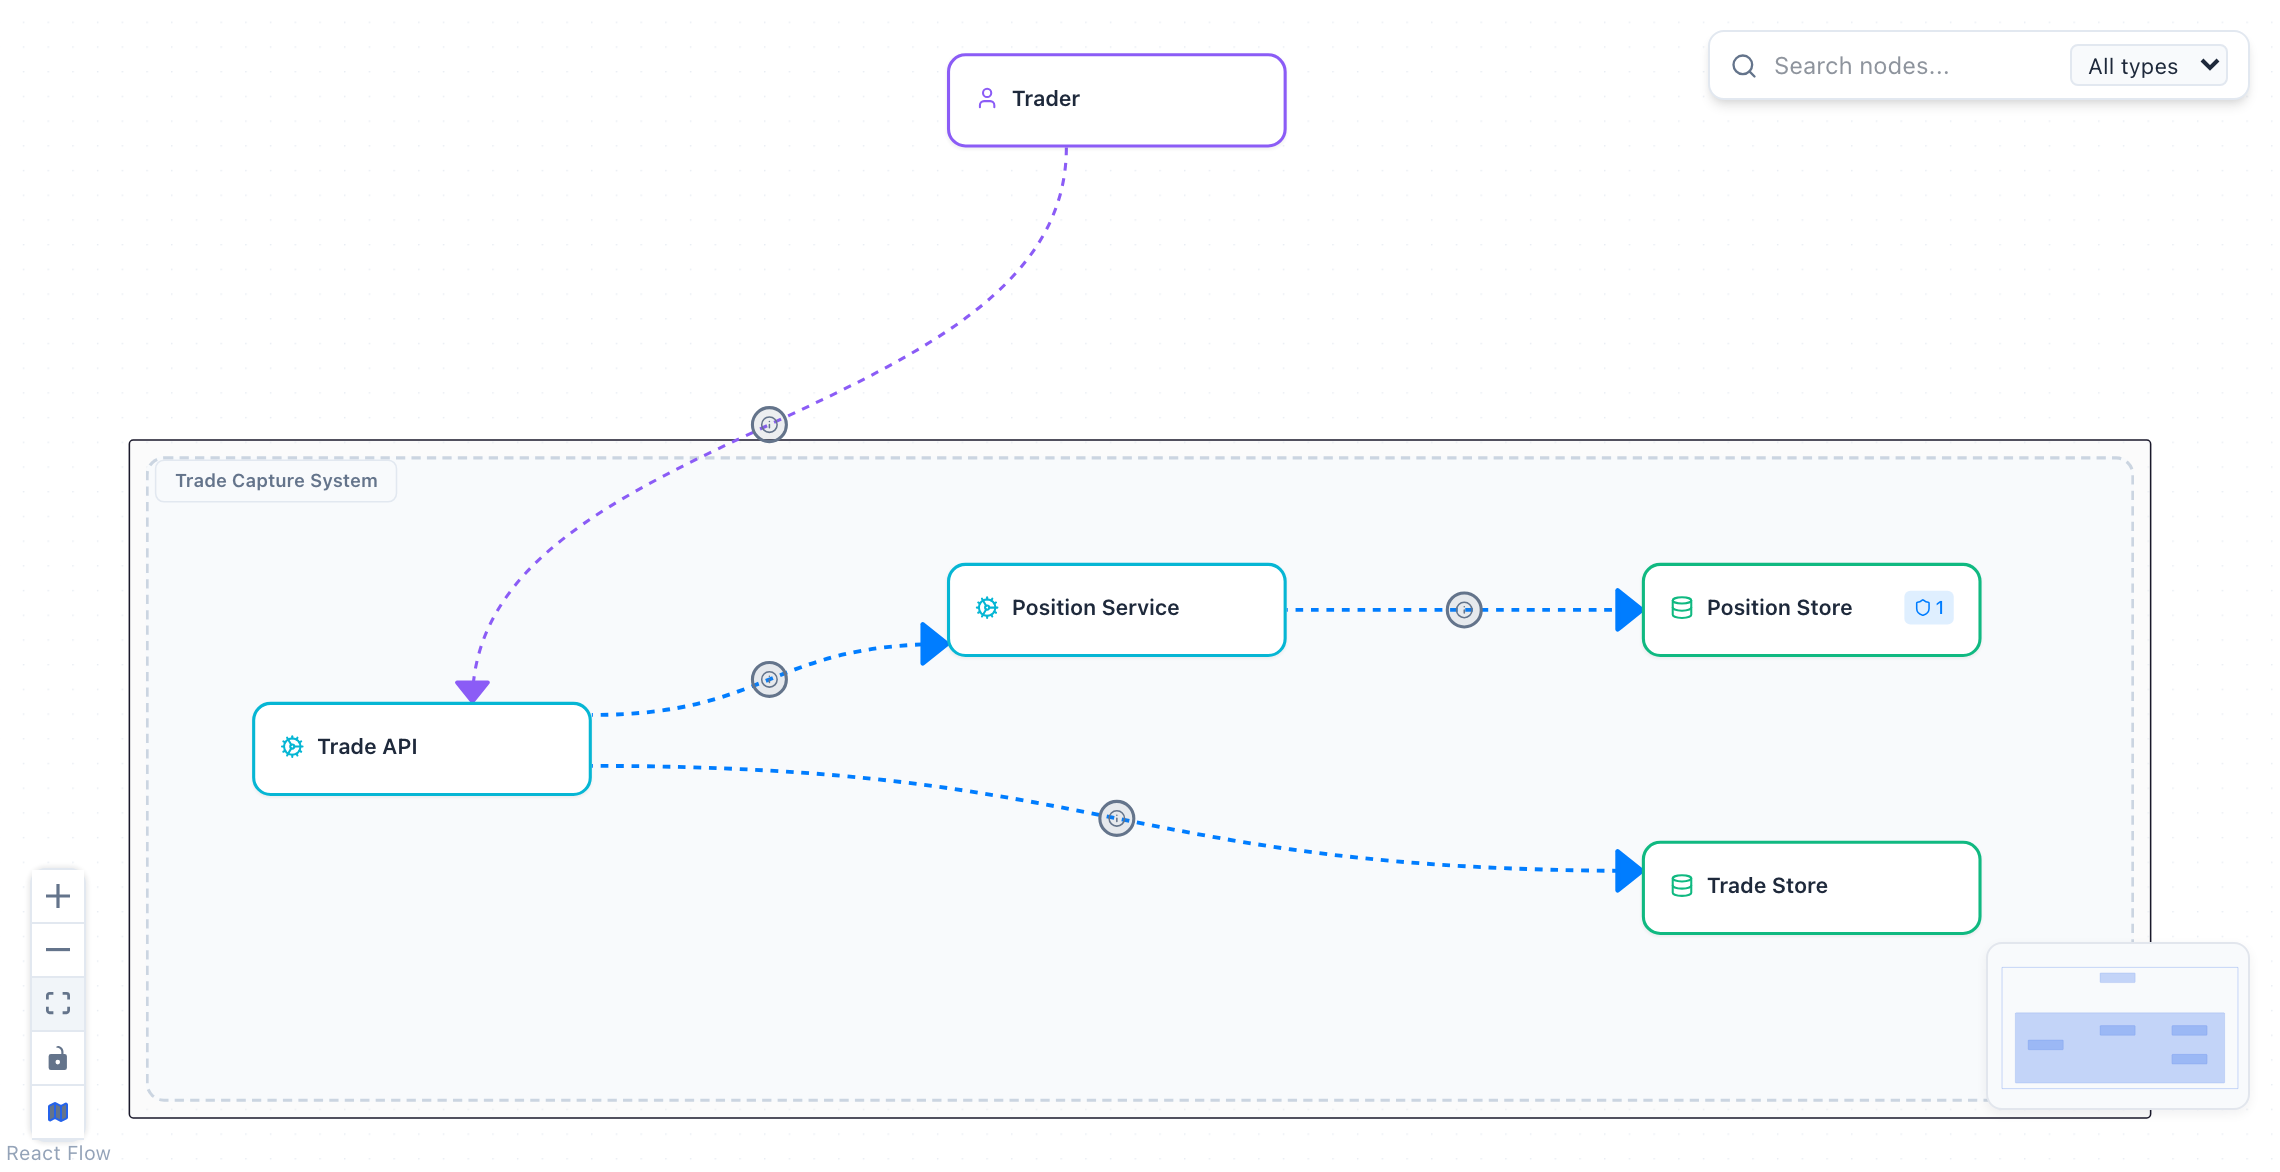
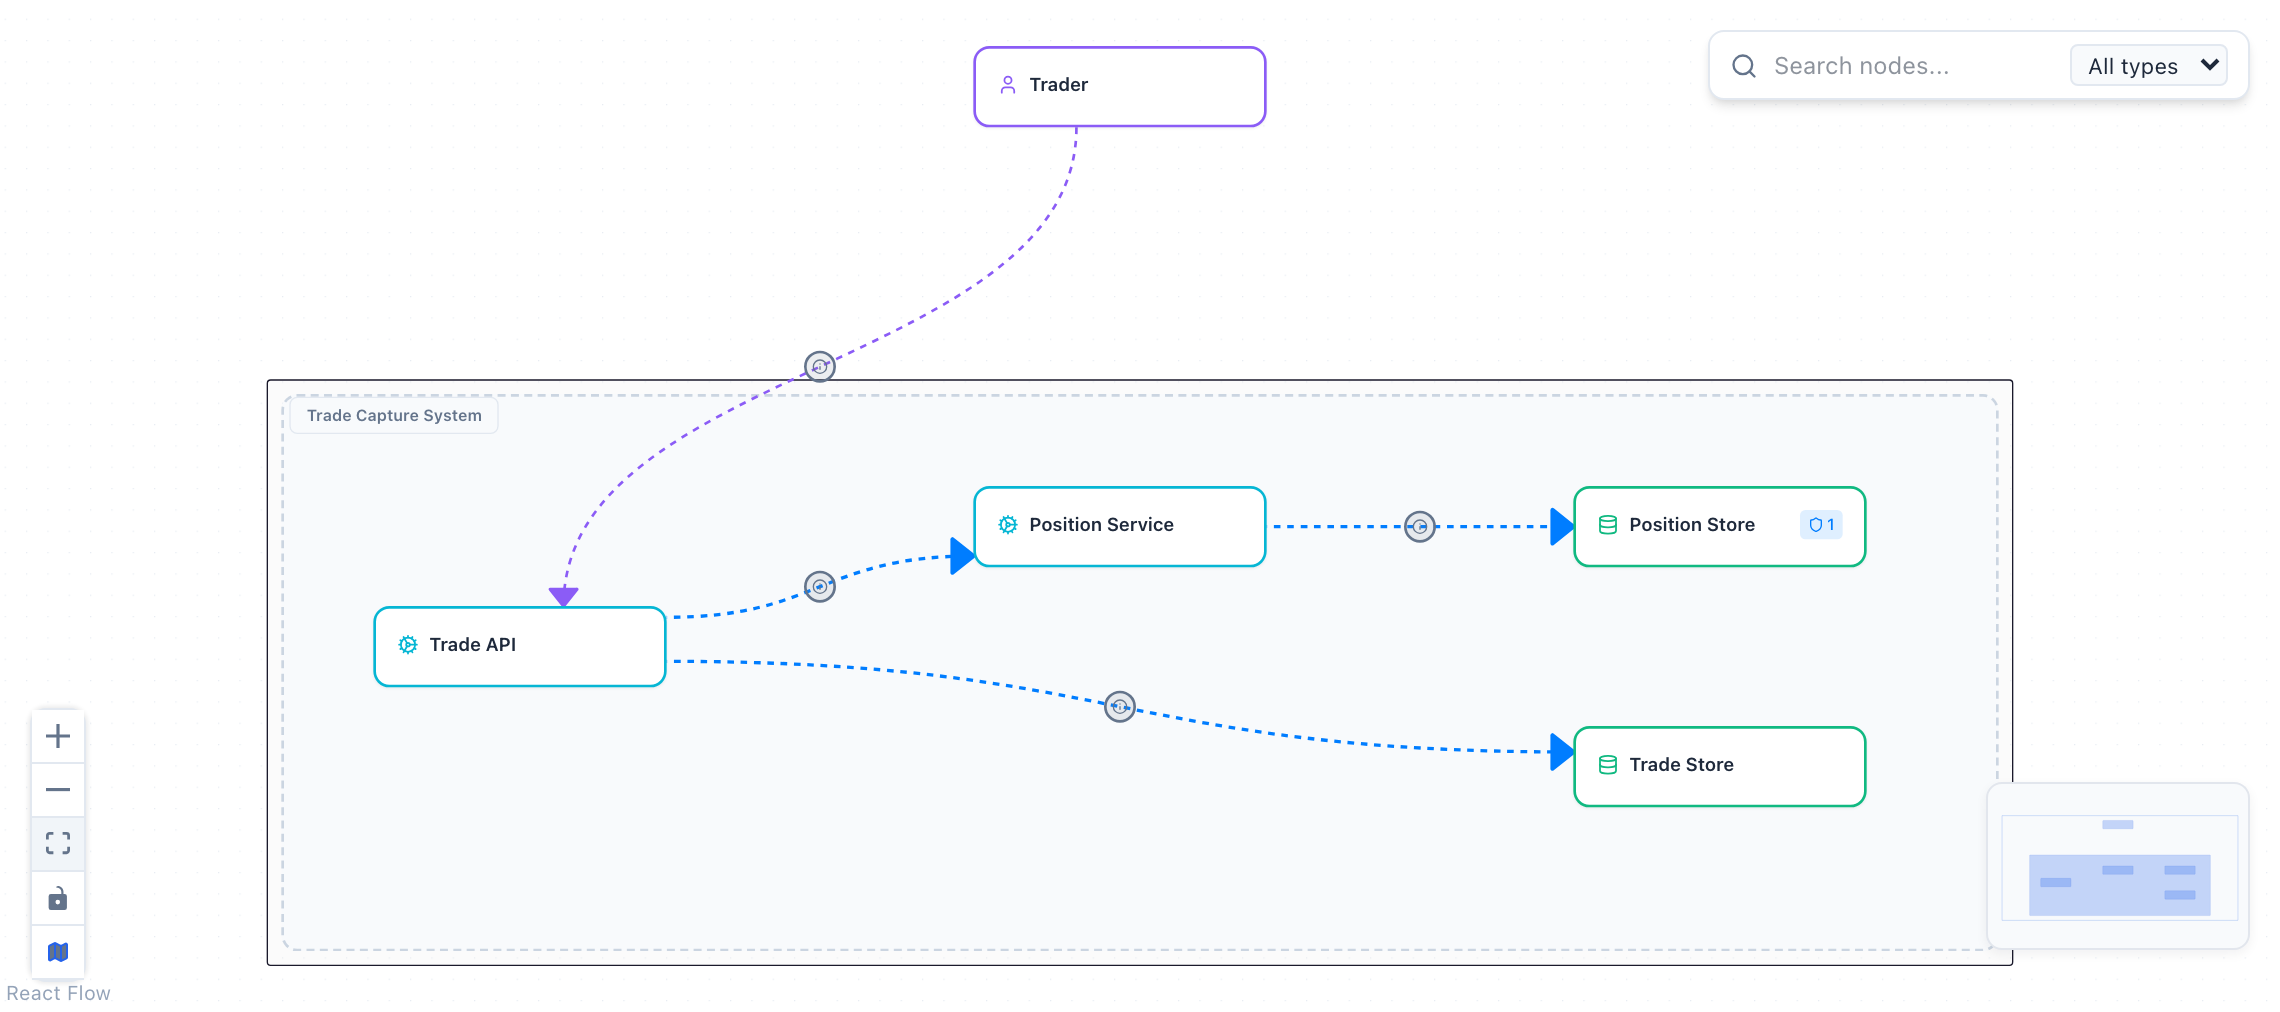
fix(slides): position-store shot shows the diagram, browser always closed

diff --git a/slides/deck.css b/slides/deck.css
@@ -63,4 +63,7 @@
 .reveal .kv dd { margin: 0; }
 .reveal .hub-shot { width: 100%; border-radius: 12px; box-shadow: 0 8px 30px rgba(0,0,0,.18); }
 .reveal .hub-shot.wide { display: block; width: 1400px; max-width: 100%; margin: 0 auto 12px; }
-.reveal .facts { display: flex; gap: 28px; font-size: 26px; line-height: 1.3; width: 1150px; max-width: 100%; margin: 0 auto; } .reveal .facts > div { flex: 1 1 0; } .reveal .facts > div:last-child { flex: 1.7 1 0; } .reveal .facts strong { color: var(--blue); }
+.reveal .facts { display: flex; gap: 28px; font-size: 26px; line-height: 1.3; width: 1150px; max-width: 100%; margin: 0 auto; }
+.reveal .facts > div { flex: 1 1 0; }
+.reveal .facts > div:last-child { flex: 1.7 1 0; }
+.reveal .facts strong { color: var(--blue); }
